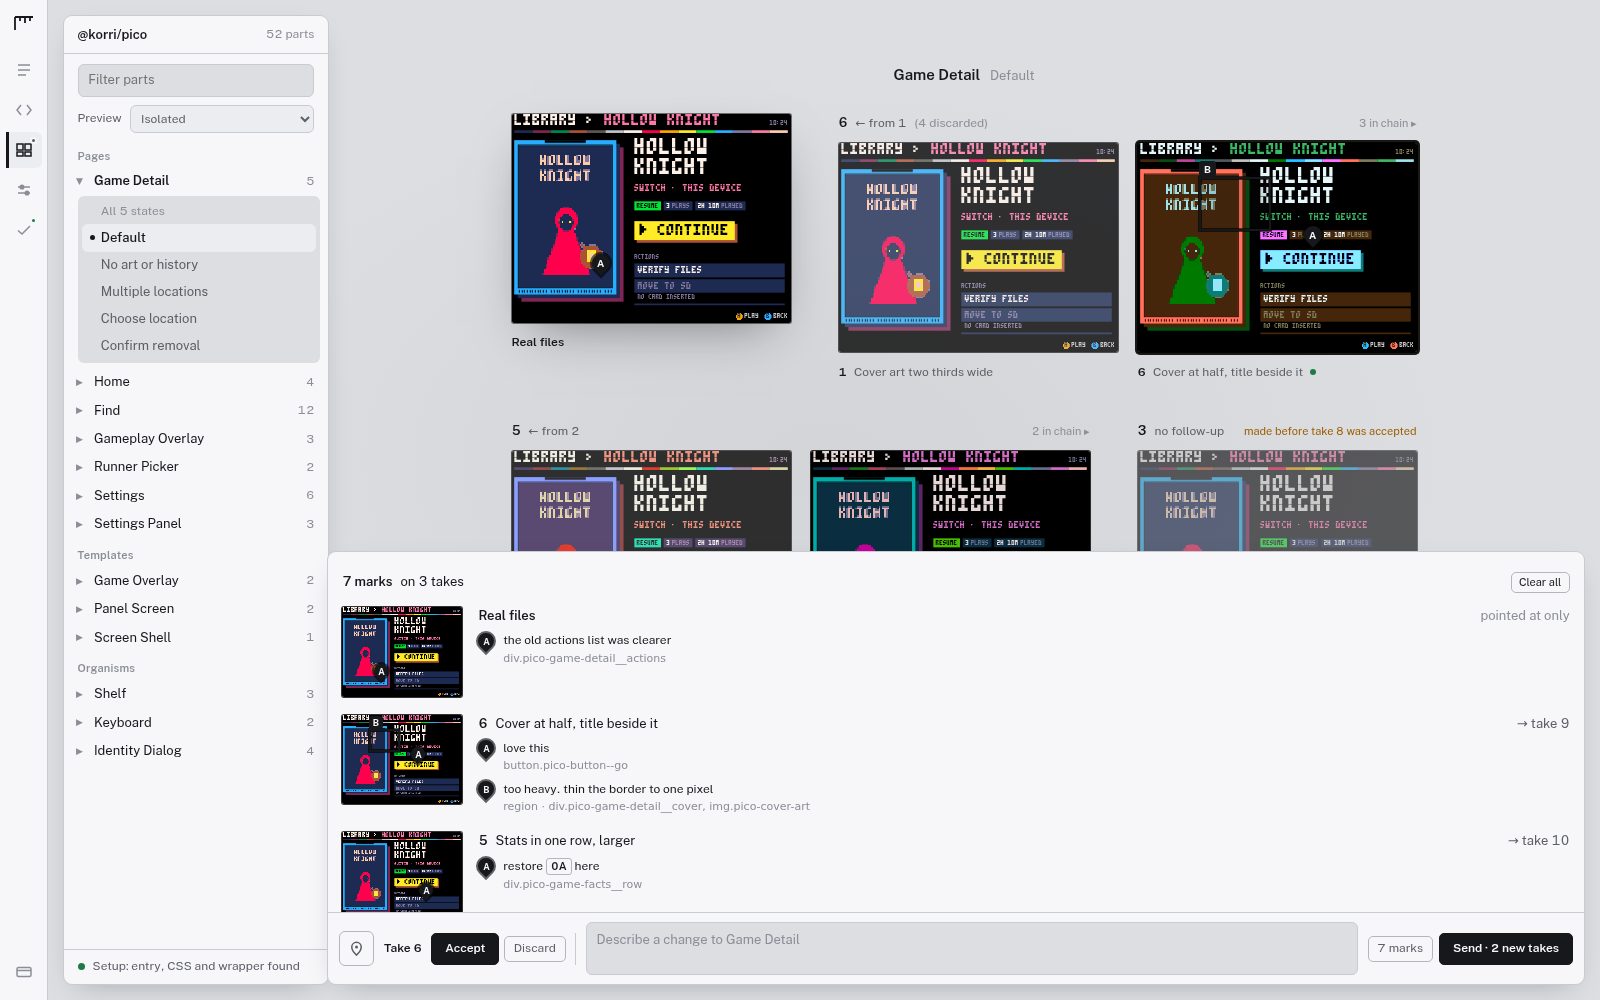
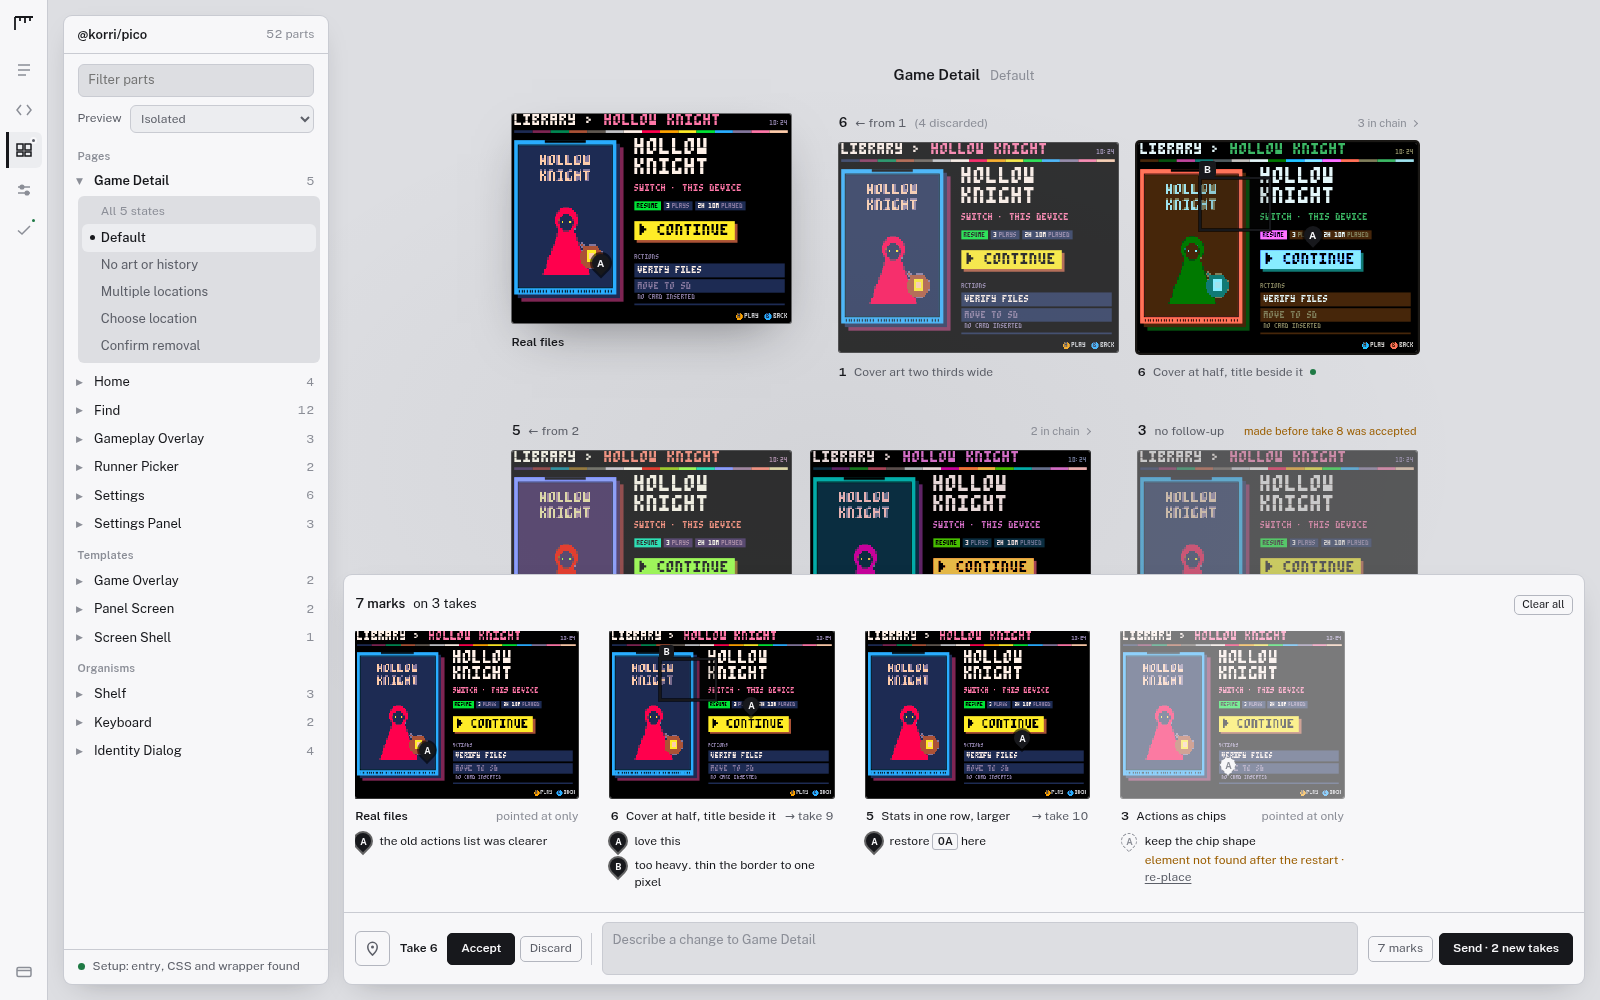
docs(design): Darkroom fifth pass: one gutter token, draft as the canvas, drawn chevrons

Changed region(s): [[0.1875, 0.527, 1.0, 0.992]]

diff --git a/docs/design/mockups/b.css b/docs/design/mockups/b.css
@@ -11,6 +11,12 @@
   --mono: ui-monospace, "SF Mono", Menlo, monospace;
   --fs-1: 12px; --fs-2: 13px; --fs-3: 15px;
   --mm: 3.875px;
+  --gutter: 1rem;
+  --parts-w: 16.5rem;
+  --side-w: 21rem;
+  /* the room's free edges: after the parts panel, before the side panel */
+  --free-l: calc(var(--gutter) * 2 + var(--parts-w));
+  --free-r: calc(var(--gutter) * 2 + var(--side-w));
 
   --room: #121316; --card: #1C1D21; --card-2: #24262B; --edge: #303237; --edge-2: #3E4148;
   --ink: #ECECEE; --ink-2: #A3A6AE; --ink-3: #6E717A;
@@ -68,8 +74,8 @@ code { font-family: var(--mono); font-size: .92em; }
 .panel > header .sub { color: var(--ink-3); font-weight: 400; margin-left: auto; font-size: var(--fs-1); min-width: 0; overflow: hidden; text-overflow: ellipsis; white-space: nowrap; }
 .panel > header .close { margin-left: auto; border: 0; background: none; color: var(--ink-2); font-weight: 500; font-size: var(--fs-1); }
 
-.p-parts { left: 1rem; top: 1rem; bottom: 1rem; width: 16.5rem; }
-.p-side { right: 1rem; top: 1rem; bottom: 1rem; width: 21rem; }
+.p-parts { left: var(--gutter); top: var(--gutter); bottom: var(--gutter); width: var(--parts-w); }
+.p-side { right: var(--gutter); top: var(--gutter); bottom: var(--gutter); width: var(--side-w); }
 
 .btn { border: 1px solid var(--edge-2); background: transparent; border-radius: 5px; padding: .22rem .55rem; font-size: var(--fs-1); }
 .btn.primary { background: var(--accent); color: var(--accent-ink); border-color: var(--accent); font-weight: 600; }
@@ -103,11 +109,11 @@ code { font-family: var(--mono); font-size: .92em; }
 /* --- the lit subject ---------------------------------------------------- */
 .subject {
   position: absolute; top: 50%; transform: translate(-50%, -52%); gap: 1.1rem;
-  left: calc(17.5rem + (100% - 17.5rem - 22rem) / 2); width: max-content; max-width: calc(100% - 17.5rem - 22rem - 2rem);
+  left: calc(var(--free-l) + (100% - var(--free-l) - var(--free-r)) / 2); width: max-content; max-width: calc(100% - var(--free-l) - var(--free-r));
   display: grid; gap: .9rem; justify-items: center;
 }
 /* states with no right panel centre in the room minus the parts panel */
-.app:is([data-state="takes"], [data-state="empty"], [data-state="mark"], [data-state="draft"], [data-state="agent"], [data-state="grid"], [data-state="error"], [data-state="checks"], [data-state="calibrate"]) .subject { left: calc(17.5rem + (100% - 17.5rem) / 2); max-width: calc(100% - 17.5rem - 2rem); }
+.app:is([data-state="takes"], [data-state="empty"], [data-state="mark"], [data-state="draft"], [data-state="agent"], [data-state="grid"], [data-state="error"], [data-state="checks"], [data-state="calibrate"]) .subject { left: calc(var(--free-l) + (100% - var(--free-l) - var(--gutter)) / 2); max-width: calc(100% - var(--free-l) - var(--gutter)); }
 .app:is([data-state="takes"], [data-state="empty"], [data-state="mark"], [data-state="draft"], [data-state="agent"], [data-state="grid"], [data-state="error"], [data-state="checks"], [data-state="calibrate"]) .p-side { display: none; }
 .app:is([data-state="takes"], [data-state="empty"], [data-state="mark"], [data-state="draft"], [data-state="grid"], [data-state="agent"]) .subject { top: 45%; }
 .app[data-state="draft"] .subject { top: 4rem; transform: translate(-50%, 0); }
@@ -159,8 +165,10 @@ code { font-family: var(--mono); font-size: .92em; }
 .chain-head b { color: var(--ink); font-weight: 600; font-size: var(--fs-2); }
 .chain-head .from { color: var(--ink-2); }
 .chain-head .dim { color: var(--ink-3); }
-.chain-head .hist { margin-left: auto; border: 0; background: none; color: var(--ink-3); font-size: 11px; padding: 0; }
-.chain-head .hist::after { content: " ▸"; }
+.chain-head .hist { margin-left: auto; border: 0; background: none; color: var(--ink-3); font-size: 11px; padding: 0; display: inline-flex; align-items: center; gap: .3rem; }
+/* a drawn chevron: 5 px, centred on the x-height, the same everywhere */
+.chev { display: inline-block; width: 5px; height: 5px; border: solid currentColor; border-width: 1.5px 1.5px 0 0; transform: rotate(45deg); flex: none; }
+[aria-expanded="true"] .chev, [open] > summary .chev { transform: rotate(135deg); }
 .history[hidden] { display: none; }
 .chain-head .flag { margin-left: auto; color: var(--warn); font-size: 11px; }
 .chain.flagged .fr .screen { opacity: .6; }
@@ -209,7 +217,7 @@ code { font-family: var(--mono); font-size: .92em; }
 .agent .shot p { margin: 0; font-size: 11px; }
 
 /* the bar under the canvas: composer, focused take, draft and Send */
-.bar-composer { display: none; position: absolute; left: 17.5rem; right: 1rem; bottom: 1rem; background: var(--card); border-radius: 8px; box-shadow: var(--lift); padding: .55rem .7rem; }
+.bar-composer { display: none; position: absolute; left: var(--free-l); right: var(--gutter); bottom: var(--gutter); background: var(--card); border-radius: 8px; box-shadow: var(--lift); padding: .55rem .7rem; }
 .app:is([data-state="takes"], [data-state="empty"], [data-state="mark"], [data-state="draft"]) .bar-composer { display: block; }
 .bar-row { display: grid; grid-template-columns: auto auto 1fr auto; gap: .6rem; align-items: center; }
 .bar-composer .focused { display: flex; gap: .3rem; align-items: center; padding-right: .6rem; border-right: 1px solid var(--edge); font-size: var(--fs-1); color: var(--ink-2); }
@@ -226,27 +234,27 @@ code { font-family: var(--mono); font-size: .92em; }
 .app[data-state="empty"] .s-takes .fr:not(.orig), .app[data-state="empty"] .chain, .app[data-state="empty"] .marks { display: none; }
 .app[data-state="empty"] .s-takes .title .mark-only { display: none; }
 
-/* the draft, unfolded above the bar: each take as its thumbnail with the marks drawn, then the notes */
-.draft { border-bottom: 1px solid var(--edge); margin: 0 -.7rem .6rem; padding: .3rem .9rem .9rem; max-height: 22rem; overflow: auto; }
+/* the draft, unfolded above the bar: the marked takes in a row, marks drawn on, each note under its mark */
+.draft { margin: 0 -.7rem .6rem; padding: .2rem .7rem 1rem; max-height: 24rem; overflow: auto; border-bottom: 1px solid var(--edge); }
 .app[data-state="draft"] .draft { display: block; }
-.draft-head { display: flex; gap: .5rem; align-items: baseline; padding: .4rem 0 .9rem; font-size: var(--fs-2); }
+.draft-head { display: flex; gap: .5rem; align-items: baseline; padding: .5rem 0 1rem; font-size: var(--fs-2); }
 .draft-head b { font-weight: 600; }
 .draft-head .btn { margin-left: auto; }
-.draft-takes { display: grid; gap: 1.1rem; }
-.dtake { display: grid; grid-template-columns: 7.5rem 1fr; gap: 1rem; align-items: start; }
+.draft-takes { display: flex; gap: 2rem; align-items: start; overflow-x: auto; padding-bottom: .3rem; }
+.dtake { display: grid; gap: .6rem; width: calc(var(--mm) * 72 * .8); flex: none; }
 .dthumb { position: relative; }
 .dthumb img { display: block; width: 100%; image-rendering: pixelated; border-radius: 2px; box-shadow: 0 0 0 1px rgba(0,0,0,.8); }
-.dthumb .pin { width: 14px; height: 14px; margin: -7px 0 0 -7px; font-size: 9px; }
+.dthumb .pin { width: 16px; height: 16px; margin: -8px 0 0 -8px; font-size: 9px; }
 .dthumb .region span { font-size: 9px; padding: 2px 4px; }
-.dbody { display: grid; gap: .45rem; font-size: var(--fs-1); }
-.dhead { display: flex; gap: .5rem; align-items: baseline; color: var(--ink); font-size: var(--fs-2); }
+.dbody { display: grid; gap: .5rem; font-size: var(--fs-1); }
+.dhead { display: flex; gap: .45rem; align-items: baseline; color: var(--ink); font-size: var(--fs-1); }
 .dhead b { font-weight: 600; }
-.dhead .dim, .dhead .will { color: var(--ink-3); margin-left: auto; }
+.dhead .dim, .dhead .will { color: var(--ink-3); margin-left: auto; white-space: nowrap; }
 .dhead .will { color: var(--ink-2); }
-.dmark { display: grid; grid-template-columns: 16px 1fr; gap: .1rem .55rem; align-items: baseline; }
+.dmark { display: grid; grid-template-columns: 16px 1fr; gap: .15rem .5rem; align-items: baseline; }
 .dmark .q { color: var(--ink); }
-.dmark .el { grid-column: 2; color: var(--ink-3); font-family: var(--mono); font-size: 11px; }
-.dmark .el.warn { color: var(--warn); font-family: var(--sans); }
+.dmark .el { display: none; }
+.dmark .el.warn { display: block; grid-column: 2; color: var(--warn); }
 .dtake.lost .dthumb img { opacity: .5; }
 .pin.inline { position: static; display: inline-grid; width: 16px; height: 16px; margin: 0; font-size: 9px; vertical-align: -3px; }
 .pin.inline.lost { background: none; }
@@ -331,7 +339,7 @@ input[type="range"]::-webkit-slider-thumb { -webkit-appearance: none; width: 14p
 .literal .where { color: var(--ink-3); font-size: 11px; }
 
 /* --- code pane ----------------------------------------------------------- */
-.p-code { display: none; left: 19rem; right: 23rem; top: auto; bottom: 1rem; height: 46%; grid-template-rows: auto auto 1fr; }
+.p-code { display: none; left: var(--free-l); right: var(--free-r); top: auto; bottom: var(--gutter); height: 46%; grid-template-rows: auto auto 1fr; }
 .app[data-state="code"] .p-code { display: grid; }
 .app[data-state="code"] .subject { top: 27%; transform: translate(-50%, -50%); }
 .tabs { display: flex; gap: 2px; padding: .3rem .5rem 0; border-bottom: 1px solid var(--edge); overflow: hidden; font-size: var(--fs-1); }
@@ -365,10 +373,9 @@ input[type="range"]::-webkit-slider-thumb { -webkit-appearance: none; width: 14p
 .sum .btn { margin-left: auto; align-self: center; }
 .cg { padding: .7rem 1.1rem .8rem; display: grid; grid-template-columns: 1.4rem 1fr; gap: .3rem .4rem; align-items: baseline; font-size: var(--fs-1); }
 .passed { margin-top: .6rem; }
-.passed summary { list-style: none; cursor: pointer; display: grid; grid-template-columns: 1.4rem 1fr auto; gap: .4rem; padding: .6rem 1.1rem; color: var(--ink-2); font-size: var(--fs-1); }
+.passed summary { list-style: none; cursor: pointer; display: grid; grid-template-columns: 1.4rem auto auto; justify-content: start; gap: .3rem .4rem; align-items: center; padding: .6rem 1.1rem; color: var(--ink-2); font-size: var(--fs-1); }
 .passed summary::-webkit-details-marker { display: none; }
-.passed summary::after { content: "▸"; color: var(--ink-3); }
-.passed[open] summary::after { content: "▾"; }
+.passed summary .chev { color: var(--ink-3); }
 .passed .cg { padding: .35rem 1.1rem; }
 .passed .cg .h { color: var(--ink-2); }
 .link { border: 0; background: none; padding: 0; color: var(--ink-2); text-decoration: underline; text-underline-offset: 2px; font-size: inherit; }
@@ -421,6 +428,7 @@ input[type="range"]::-webkit-slider-thumb { -webkit-appearance: none; width: 14p
   .agent .shot { justify-items: center; }
   .agent .shot .marks { left: 50%; transform: translateX(-50%); }
   .bar-composer { left: .5rem; right: .5rem; bottom: .5rem; padding: .45rem .5rem; }
+  .p-code { left: 0; right: 0; }
   .bar-row { grid-template-columns: auto auto 1fr; }
   .bar-composer .focused { border: 0; padding: 0; }
   .bar-composer .go { grid-column: 1 / -1; }
@@ -432,7 +440,9 @@ input[type="range"]::-webkit-slider-thumb { -webkit-appearance: none; width: 14p
   .bar-composer .go .count { display: none; }
   .bar-composer .send { white-space: normal; text-align: left; }
   .draft { max-height: 44dvh; }
-  .dtake { grid-template-columns: 5rem 1fr; gap: .7rem; }
+  .draft-takes { flex-direction: column; gap: 1.2rem; overflow: visible; }
+  .dtake { width: auto; grid-template-columns: calc(var(--mm) * 72 * .5) 1fr; gap: .7rem; }
+  .dthumb .pin { width: 13px; height: 13px; margin: -6.5px 0 0 -6.5px; font-size: 8px; }
   .dhead { flex-wrap: wrap; }
   .dhead .dim, .dhead .will { margin-left: 0; flex-basis: 100%; }
   .frames { gap: 1.6rem 1rem; }

diff --git a/docs/design/mockups/index.html b/docs/design/mockups/index.html
@@ -24,7 +24,7 @@
 </style>
 </head>
 <body>
-<h1>Caliper: Darkroom, fourth pass</h1>
+<h1>Caliper: Darkroom, fifth pass</h1>
 <p>The room is dark and the device is the only lit thing in it. There is no accent hue: the product is the only colour on screen, and selection, focus and the live knob use ink. Takes live on the canvas as chains: the real files, then each chain as a before-and-after pair. You mark a take with lettered pins and regions (<code>docs/plans/take-markup.md</code>), and one Send makes the next take of every marked chain. In light mode the room becomes a lightbox. Each state below is the same page with <code>?state=</code>; open it on this phone to see it at real size in your system's colour scheme.</p>
 <dl><dt>Type</dt><dd>Public Sans, tabular numerals, no mono except code and CSS names</dd><dt>Dark</dt><dd>room #121316, card #1C1D21, ink #ECECEE</dd><dt>Light</dt><dd>room #DDDEE2, card #F7F7F9, ink #17181C</dd><dt>Alternative</dt><dd>one cool accent, <a href="b-darkroom.html?state=takes&accent=sky">?accent=sky</a>, kept only for comparison</dd></dl>
 <nav>
@@ -44,7 +44,7 @@
 const states = [
   ["takes", "Takes as chains", "The real files, then each chain as a before-and-after pair: parent dimmed on the left, newest take on the right. The head says where the take came from, for example \"6 ← from 1 (4 discarded)\", and unfolds the chain history as a strip. A chain with no follow-up is one frame. A chain made before another was accepted is dimmed and flagged. Marks are lettered pins, named by take: 0A on the original, 6A and 6B on take 6. A lost mark is a hollow pin. The bar holds the mark-mode button, the focused take's Accept and Discard, the composer, the draft count and Send. On the phone each chain shows the newest take only; the parent is one tap away."],
   ["mark", "Mark mode with the note editor", "Mark mode is on: every frame gets a dashed edge and a crosshair, and the slate says how to leave. A click makes a lettered pin, a drag makes a region. The editor opens under the marked frame: the mark's name, one line of text, and the marks you can point at as chips. A lost mark is a dashed chip. Enter saves."],
-  ["draft", "The draft and Send", "The draft mirrors the canvas: each marked take as its thumbnail with the marks drawn on it, then each mark as its pin and the note in your words. The element is a dim second line. What Send does for the take sits at the right of its name. Send carries the count."],
+  ["draft", "The draft and Send", "The draft is the marked takes in a row, the same shape as the canvas: each take with its marks drawn on, and under it each mark as pin and note, in your words. What Send does for the take sits at the right of its name. On the phone the row stacks."],
   ["agent", "What the agent sees", "The parent take's screenshot with the marks drawn in white, beside the brief as a card in the chrome's own type: lineage, first prompt, direction, each pass's marks as pin and note, and what the agent may read and write. This pass's marks are the one raised section."],
   ["empty", "First run, no takes yet", "The real files, one field, one button. Nothing else until there is something to mark or count."],
   ["knobs", "Knobs", "Sliders for numbers, the palette as the control for a colour, a bar per container threshold with the part's current size marked. Only the live knob shows its source path."],

diff --git a/docs/design/mockups/b-darkroom.html b/docs/design/mockups/b-darkroom.html
@@ -82,7 +82,7 @@
           <div class="chain">
             <div class="chain-head">
               <b>6</b><span class="from">← from 1</span><span class="dim">(4 discarded)</span>
-              <button class="hist" aria-expanded="false">3 in chain</button>
+              <button class="hist" aria-expanded="false">3 in chain<i class="chev"></i></button>
             </div>
             <div class="history" hidden>
               <span class="step"><i style="background-image:url(assets/pico-game-detail.png)"></i>1</span>
@@ -115,7 +115,7 @@
           </div>
 
           <div class="chain">
-            <div class="chain-head"><b>5</b><span class="from">← from 2</span><button class="hist" aria-expanded="false">2 in chain</button></div>
+            <div class="chain-head"><b>5</b><span class="from">← from 2</span><button class="hist" aria-expanded="false">2 in chain<i class="chev"></i></button></div>
             <div class="pair">
               <figure class="fr parent" data-take="2"><img class="screen v3" src="assets/pico-game-detail.png" alt=""><figcaption><b>2</b> Stats in one row</figcaption></figure>
               <figure class="fr" data-take="5">
@@ -238,7 +238,7 @@
             <div class="dbody">
               <div class="dhead"><b>6</b> Cover at half, title beside it<span class="will">→ take 9</span></div>
               <div class="dmark"><span class="pin inline"><span>A</span></span><span class="q">love this</span><span class="el">button.pico-button--go</span></div>
-              <div class="dmark"><span class="pin inline"><span>B</span></span><span class="q">too heavy. thin the border to one pixel</span><span class="el">region · div.pico-game-detail__cover, img.pico-cover-art</span></div>
+              <div class="dmark"><span class="pin inline"><span>B</span></span><span class="q">too heavy. thin the border to one pixel</span><span class="el">region</span></div>
             </div>
           </div>
           <div class="dtake">
@@ -384,7 +384,7 @@
           <span class="g na">–</span><span class="l">cancel keeps the game <span class="dim">not run</span></span>
         </div>
         <details class="passed">
-          <summary><span class="g ok">✓</span>9 passed</summary>
+          <summary><span class="g ok">✓</span><span>9 passed</span><i class="chev"></i></summary>
           <div class="cg"><span class="g ok">✓</span><span class="h"><b>Default</b> <span class="dev">RG353M</span></span><span></span><span class="l dim">render, image, play launches or asks where, back returns to the library</span></div>
           <div class="cg"><span class="g ok">✓</span><span class="h"><b>Default</b> <span class="dev">ODIN 2 PORTAL</span></span><span></span><span class="l dim">render · no accepted image yet, <button class="link">approve this render</button></span></div>
           <div class="cg"><span class="g ok">✓</span><span class="h"><b>No art or history</b> <span class="dev">RG353M</span></span><span></span><span class="l dim">render, image</span></div>

diff --git a/docs/design/mockups/parts/subject.html b/docs/design/mockups/parts/subject.html
@@ -23,7 +23,7 @@
           <div class="chain">
             <div class="chain-head">
               <b>6</b><span class="from">← from 1</span><span class="dim">(4 discarded)</span>
-              <button class="hist" aria-expanded="false">3 in chain</button>
+              <button class="hist" aria-expanded="false">3 in chain<i class="chev"></i></button>
             </div>
             <div class="history" hidden>
               <span class="step"><i style="background-image:url(assets/pico-game-detail.png)"></i>1</span>
@@ -56,7 +56,7 @@
           </div>
 
           <div class="chain">
-            <div class="chain-head"><b>5</b><span class="from">← from 2</span><button class="hist" aria-expanded="false">2 in chain</button></div>
+            <div class="chain-head"><b>5</b><span class="from">← from 2</span><button class="hist" aria-expanded="false">2 in chain<i class="chev"></i></button></div>
             <div class="pair">
               <figure class="fr parent" data-take="2"><img class="screen v3" src="assets/pico-game-detail.png" alt=""><figcaption><b>2</b> Stats in one row</figcaption></figure>
               <figure class="fr" data-take="5">
@@ -179,7 +179,7 @@
             <div class="dbody">
               <div class="dhead"><b>6</b> Cover at half, title beside it<span class="will">→ take 9</span></div>
               <div class="dmark"><span class="pin inline"><span>A</span></span><span class="q">love this</span><span class="el">button.pico-button--go</span></div>
-              <div class="dmark"><span class="pin inline"><span>B</span></span><span class="q">too heavy. thin the border to one pixel</span><span class="el">region · div.pico-game-detail__cover, img.pico-cover-art</span></div>
+              <div class="dmark"><span class="pin inline"><span>B</span></span><span class="q">too heavy. thin the border to one pixel</span><span class="el">region</span></div>
             </div>
           </div>
           <div class="dtake">

diff --git a/docs/design/mockups/parts/checks.html b/docs/design/mockups/parts/checks.html
@@ -9,7 +9,7 @@
           <span class="g na">–</span><span class="l">cancel keeps the game <span class="dim">not run</span></span>
         </div>
         <details class="passed">
-          <summary><span class="g ok">✓</span>9 passed</summary>
+          <summary><span class="g ok">✓</span><span>9 passed</span><i class="chev"></i></summary>
           <div class="cg"><span class="g ok">✓</span><span class="h"><b>Default</b> <span class="dev">RG353M</span></span><span></span><span class="l dim">render, image, play launches or asks where, back returns to the library</span></div>
           <div class="cg"><span class="g ok">✓</span><span class="h"><b>Default</b> <span class="dev">ODIN 2 PORTAL</span></span><span></span><span class="l dim">render · no accepted image yet, <button class="link">approve this render</button></span></div>
           <div class="cg"><span class="g ok">✓</span><span class="h"><b>No art or history</b> <span class="dev">RG353M</span></span><span></span><span class="l dim">render, image</span></div>

diff --git a/docs/design/mockups/README.md b/docs/design/mockups/README.md
@@ -20,6 +20,14 @@ dark.
 | Checks modal: less slop | Donut, badge pills and footer copy removed. One total line, then a glyph column (tick, cross, dash) per group. Failed group first with its reason inline. |
 | Knobs: show, do not tell | Sliders for numbers. The whole 16-colour palette is the control for a colour. A container threshold is a bar with the threshold mark and a "now" line for the part's current size. Only the live knob shows its source path. Skipped outputs fold into one line. |
 
+## Fifth pass: three marks
+
+| Mark | Feedback | Change |
+|---|---|---|
+| Gutters | The bar's left gutter was 1 rem past the panel, the right was 1 rem to the edge, and they read as different | One `--gutter` token. The parts panel, side panel, bar, code pane and subject all derive from it: `--free-l` is two gutters plus the panel width. |
+| A | The draft still read as generated | The draft is the marked takes in a row, marks drawn on, each note under its mark. Same shape as the canvas. Selectors are gone from the draft; the agent gets them, you do not need them. |
+| B | The chevron's space and baseline | The `▸` glyph is gone. A drawn 5 px chevron, centred on the x-height, 0.3 rem after the text, the same on the chain head and the checks fold. |
+
 ## Fourth pass: the seven marks
 
 | Mark | Feedback | Change |
